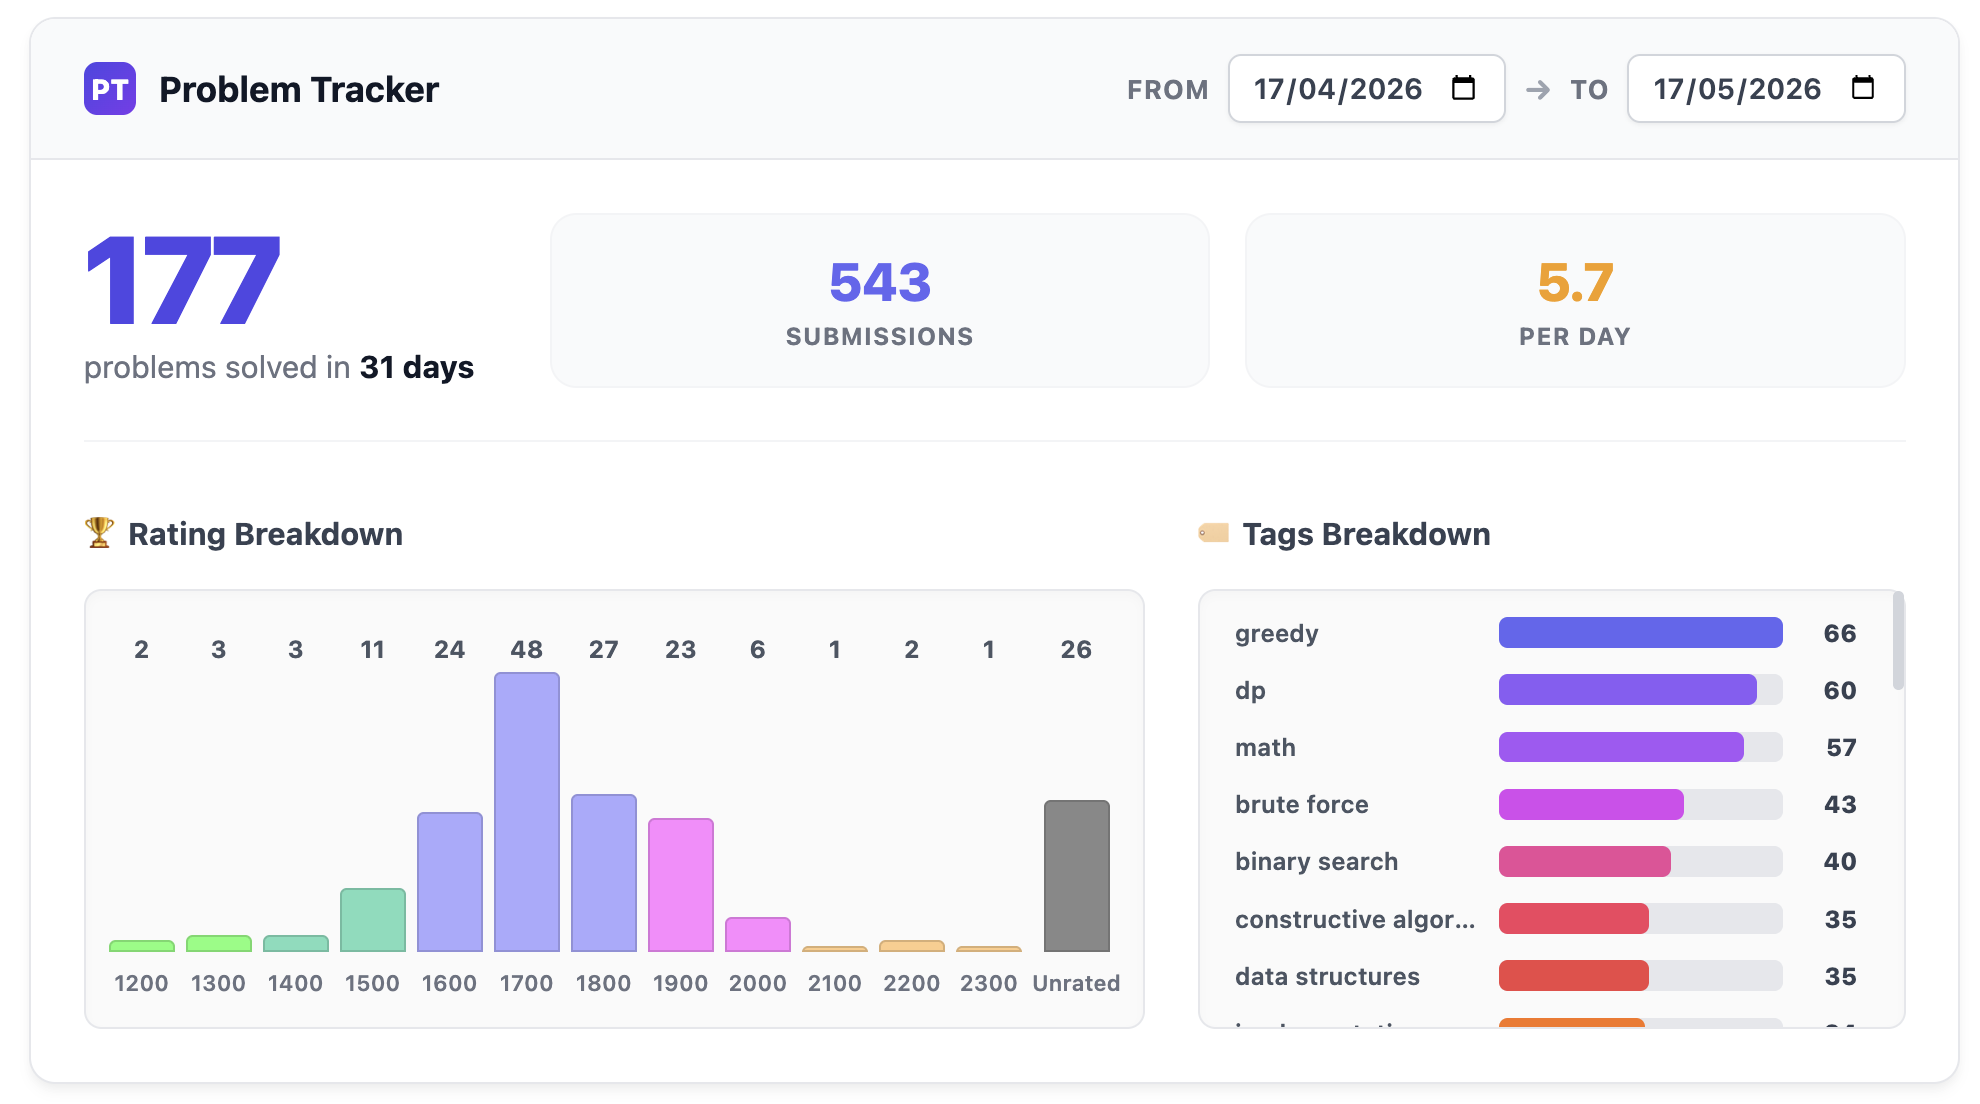
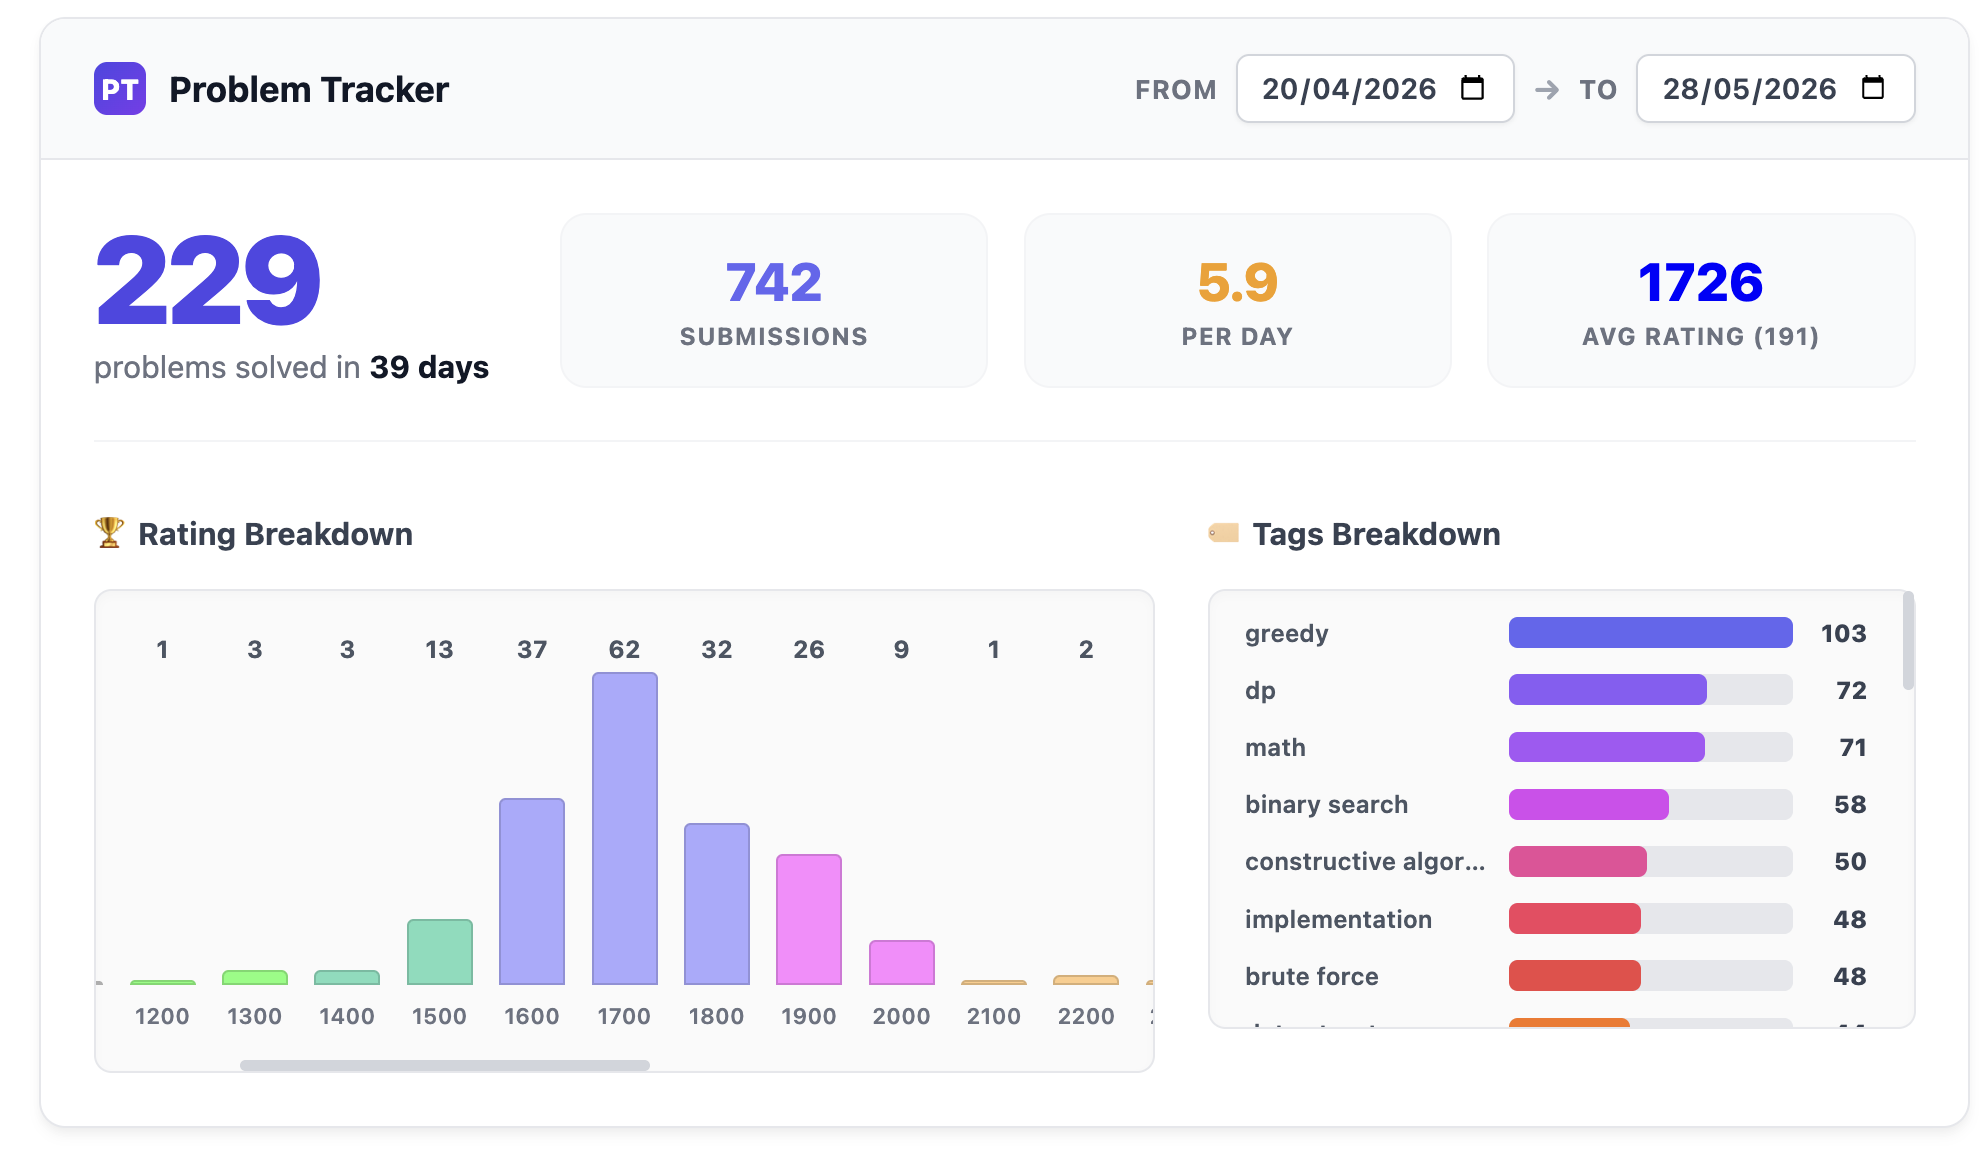
updated readme

diff --git a/README.md b/README.md
@@ -12,7 +12,7 @@
 
 ## ✨ Features
 
-- **📊 Comprehensive Dashboard:** Instantly view your total solved problems, total submissions, and average problems solved per day.
+- **📊 Comprehensive Dashboard:** Instantly view your total solved problems, total submissions, average problems solved per day, and **average rating** of your solved problems.
 - **📅 Custom Date Ranges:** Analyze your performance over any specific period (e.g., last 30 days, 1 year).
 - **📈 Rating Breakdown:** Beautiful interactive bar charts showing the difficulty levels of problems you've solved.
 - **🏷 Tag Analytics:** Discover your most practiced topics with detailed tag frequency bars and dynamic gradients.
@@ -20,6 +20,7 @@
   - Click on any **Tag** to instantly see the rating distribution for that specific topic.
   - Click on any **Rating** to see exactly which tags you solved at that difficulty.
   - *Supports Multi-selection & Click-outside to reset!*
+- **🛡 Robust Reliability:** Graceful handling of Codeforces downtime or API errors to ensure a clean browser experience without broken UI elements.
 - **🎨 Premium UI:** Smooth micro-animations, custom tooltips, glassmorphic elements, and a sleek modern design.
 
 ---
